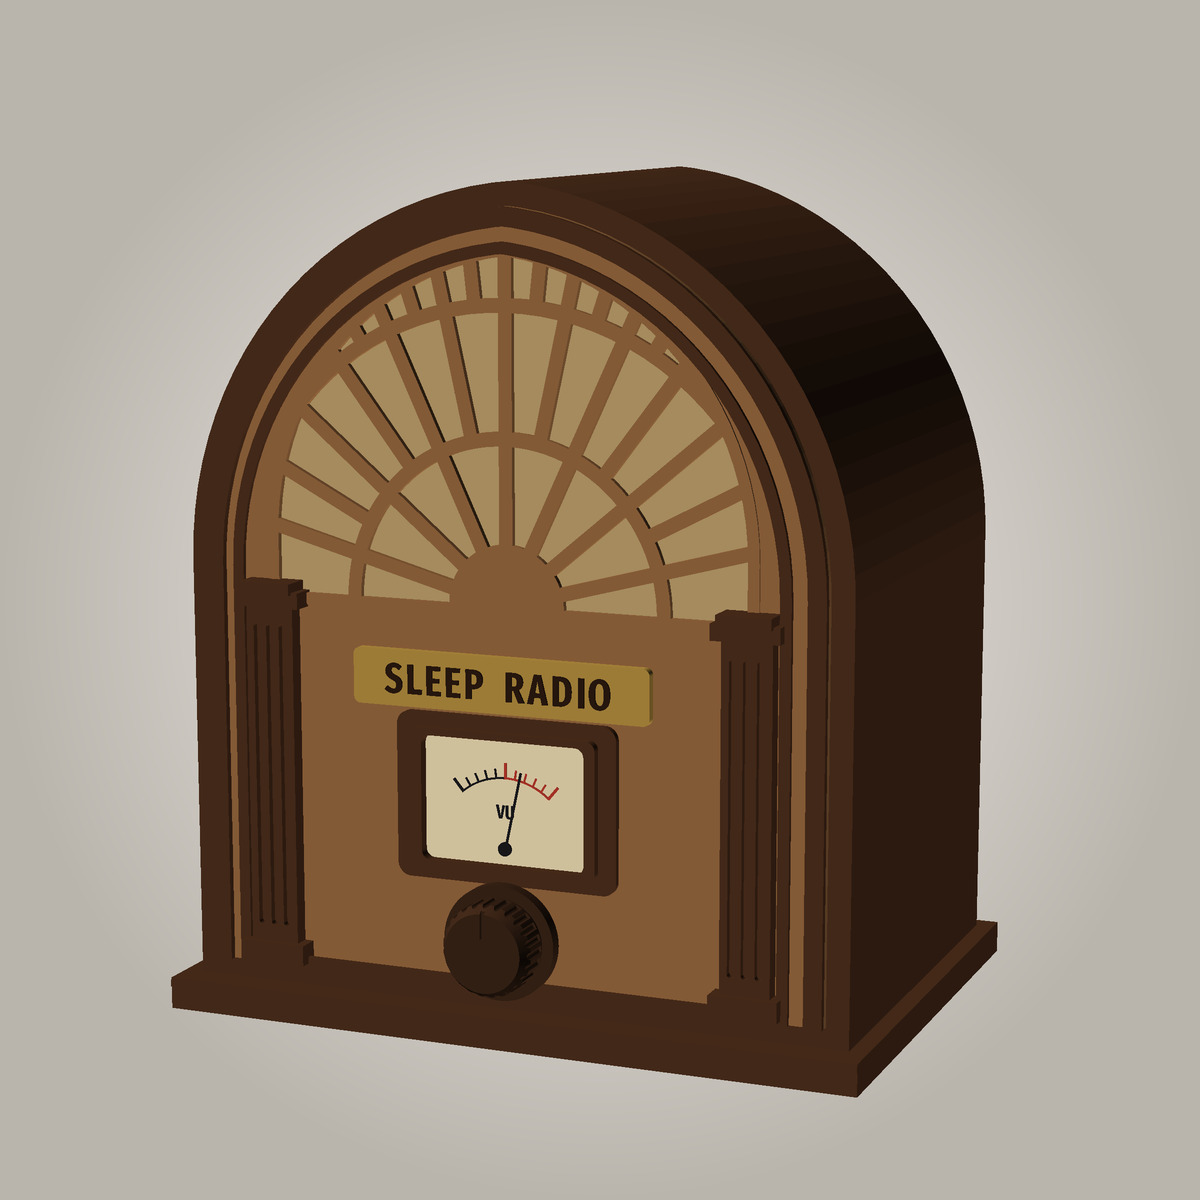
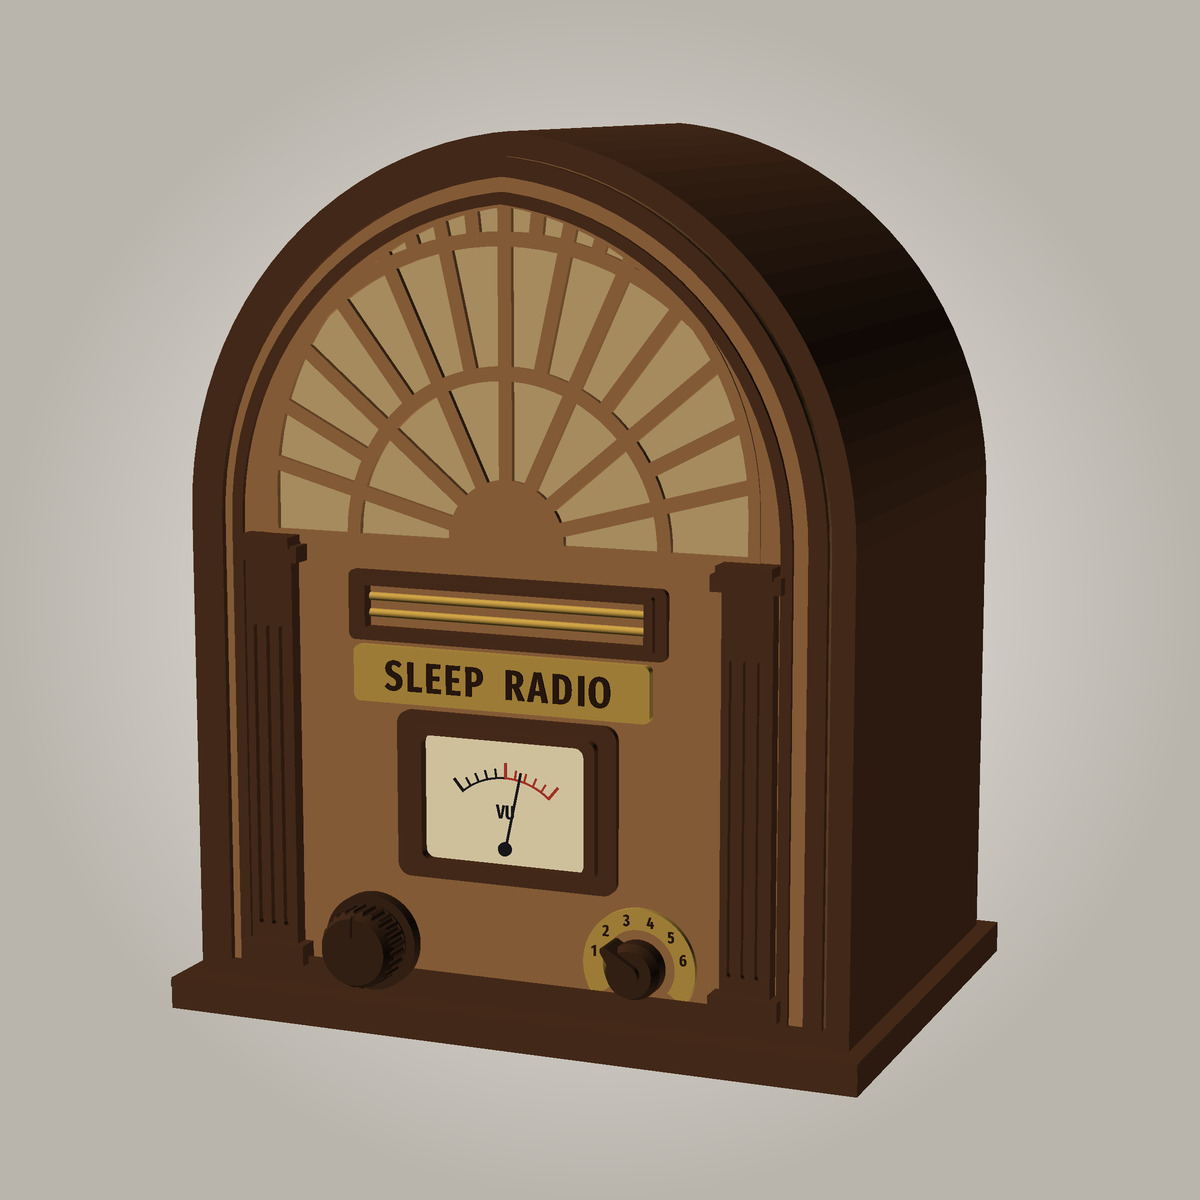
Cathedral: design decisions and the updated concept
Visaton FR 10 (4 ohm) in a ~9 L ported chamber tuned ~50 Hz (flat to
~50 Hz; sealed would stop at ~120 Hz). The port opens as a brass-barred
louvre under the grille; arch raised 20 mm (~384 mm tall). Two knobs:
volume and a 6-way wafer rotary selector over a brass escutcheon (the
presets); a hidden back button for day/night and the service menu. Grille
glow behind the cloth. Concept pictures re-rendered (wood, front and
night).

diff --git a/hardware/cathedral/README.md b/hardware/cathedral/README.md
@@ -1,6 +1,8 @@
 # SleepRadioPi cathedral radio
 
-![The cathedral radio in wood: an art deco sunburst grille, a VU meter as the dial, one knob](concept_wood.jpg)
+![The cathedral radio in wood: an art deco sunburst grille, a barred louvre (the bass port), a brass name plaque, the VU meter as the dial, a volume knob and a 6-way selector](concept_wood_front.jpg)
+
+![At night: the grille cloth lit from behind, the fretwork in silhouette, and the meter's warm backlight](concept_night.jpg)
 
 The next case for the radio is a **1930s cathedral set, very art deco**, in
 wood. This page collects the design and the recommended parts.
@@ -9,7 +11,33 @@ wood. This page collects the design and the recommended parts.
 > yet. The parts will be designed once the speaker and the VU meter arrive and
 > can be measured.
 
-## The design
+## Design decisions (2026-09-29)
+
+The serious design has started: great sound first, built around the speaker's
+published figures, then the look around it. Mono now; a stereo version would
+be a separate, wider design later.
+
+- **Speaker: Visaton FR 10, 4 Ω** (Art. No. 2020): Fs 90 Hz, Qts 0.54,
+  Vas 2.3 L, Sd 50 cm², 86 dB. A 105 mm square frame, 4 slots on a 115 mm
+  circle, 100 mm cut-out, 47 mm deep.
+- **Ported, not sealed.** With Qts 0.54 this driver suits a bass-reflex box:
+  sealed, it rolls off at ~120 Hz whatever the size; in a **~9 L chamber
+  tuned to ~50 Hz** it is flat to **~50 Hz**. The chamber is the arch above a
+  sealed shelf; the radio's low cut goes just under the tuning (~40 Hz).
+- **The port is the louvre** under the grille: a 126 × 10 mm slot port runs
+  back along the shelf and opens through three slots with brass bars.
+- **Size ~300 W × 384 H × 200 D mm**: the arch starts 20 mm higher than the
+  first concept, to fit the louvre and plaque and keep the chamber at ~9 L.
+- **Controls: two knobs**, as the 1930s sets — **volume** (the encoder: turn,
+  press to pause) and a **6-way wafer rotary selector** with firm detents
+  over a brass escutcheon (the six presets). No push-buttons. A **small
+  hidden button on the back** swaps the day/night sets and opens the service
+  menu. (The app needs a "selector" mode and six presets for this radio.)
+- **The grille glows**: warm-white LEDs round the speaker behind the cloth,
+  dimmed by the Pi.
+- Electronics (Pi, amp, RTC, meter) in a bay below the shelf, behind the dial.
+
+## The first concept
 
 - **About 300 W × 360 H × 200 D mm**, the size of a mid-size 1930s cathedral set.
 - **A sunburst fretwork grille** fills the arch: rays fanning from a half-sun,
